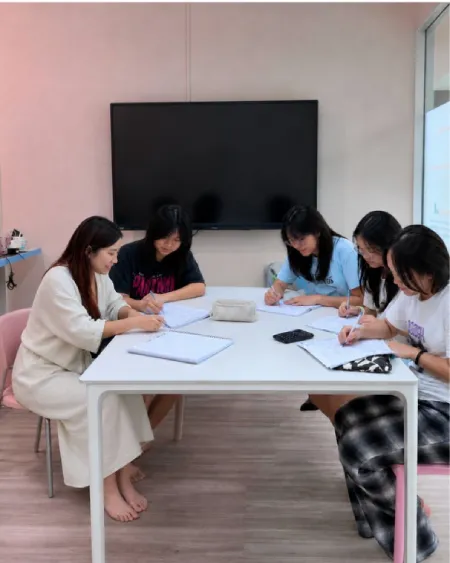
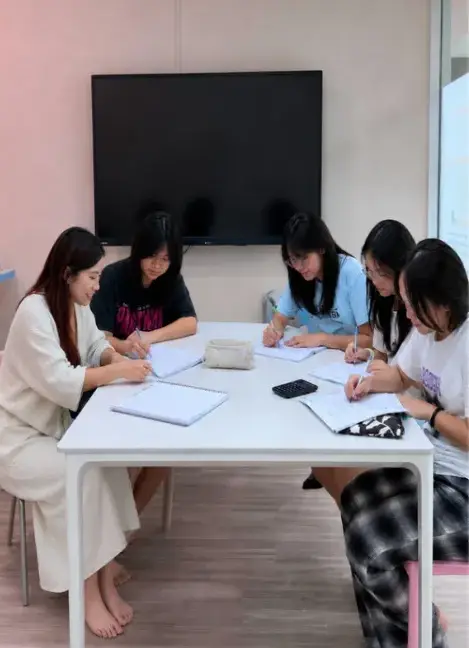
Make comparison table mobile-friendly, tidy homepage promo
Replaces the horizontally-scrolling comparison table on mobile with
stacked cards per feature (Regular/Focus labelled blocks) so nothing
is hidden off-screen without warning, while keeping the full table on
tablet/desktop. Removes the homepage promo line in favour of the
teaser section on the Programmes page, and swaps in updated class
photos.

diff --git a/components/classtypes/ClassTypesComparison.module.scss b/components/classtypes/ClassTypesComparison.module.scss
@@ -22,12 +22,17 @@
 }
 
 .tableWrapper {
+    display: none;
     overflow-x: auto;
     -webkit-overflow-scrolling: touch;
     border-radius: 0.75rem;
     box-shadow: 0 4px 10px rgba(0, 0, 0, 0.06);
     position: relative;
     z-index: 1;
+
+    @media (min-width: 768px) {
+        display: block;
+    }
 }
 
 .table {
@@ -82,6 +87,65 @@
 
 .featureCell {
     font-weight: 700;
+}
+
+.mobileCards {
+    display: flex;
+    flex-direction: column;
+    gap: 1rem;
+    position: relative;
+    z-index: 1;
+
+    @media (min-width: 768px) {
+        display: none;
+    }
+}
+
+.mobileCard {
+    background-color: #fff;
+    border-radius: 0.75rem;
+    padding: 1.25rem;
+    box-shadow: 0 4px 10px rgba(0, 0, 0, 0.06);
+}
+
+.mobileFeature {
+    font-size: 1rem;
+    font-weight: 700;
+    color: $color-text;
+    margin-bottom: 0.75rem;
+}
+
+.mobileBlock {
+    margin-bottom: 1rem;
+
+    &:last-child {
+        margin-bottom: 0;
+    }
+
+    p {
+        font-size: 0.9rem;
+        line-height: 1.5;
+        color: $color-text;
+        font-weight: 400;
+    }
+}
+
+.mobileLabel {
+    display: inline-block;
+    font-size: 0.75rem;
+    font-weight: 700;
+    color: #fff;
+    padding: 0.2rem 0.65rem;
+    border-radius: 999px;
+    margin-bottom: 0.5rem;
+}
+
+.mobileLabelRegular {
+    background-color: $color-blue;
+}
+
+.mobileLabelFocus {
+    background-color: $color-yellow;
 }
 
 /* Overlay covering bottom half of the video */

diff --git a/components/classtypes/ClassTypesComparison.tsx b/components/classtypes/ClassTypesComparison.tsx
@@ -85,6 +85,22 @@ export default function ClassTypesComparison() {
                         </tbody>
                     </table>
                 </div>
+
+                <div className={styles.mobileCards}>
+                    {rows.map((row, idx) => (
+                        <div data-aos="fade-up" key={idx} className={styles.mobileCard}>
+                            <h4 className={styles.mobileFeature}>{row.feature}</h4>
+                            <div className={styles.mobileBlock}>
+                                <span className={`${styles.mobileLabel} ${styles.mobileLabelRegular}`}>Regular Class</span>
+                                <p>{row.regular}</p>
+                            </div>
+                            <div className={styles.mobileBlock}>
+                                <span className={`${styles.mobileLabel} ${styles.mobileLabelFocus}`}>Focus Class</span>
+                                <p>{row.focus}</p>
+                            </div>
+                        </div>
+                    ))}
+                </div>
             </div>
             <div className={styles.videoOverlay}></div>
 

diff --git a/components/home/Services.tsx b/components/home/Services.tsx
@@ -32,9 +32,6 @@ export default function ProgrammesSection() {
                 <Link href="/programmes" className={` ${styles.button} buttonYellow ctaButton`}>
                     Find out more
                 </Link>
-                <p className={styles.classTypesPromo}>
-                    Not sure whether Regular or Focus Class suits your child? <Link href="/class-types">Compare both formats →</Link>
-                </p>
             </div>
         </section>
 
